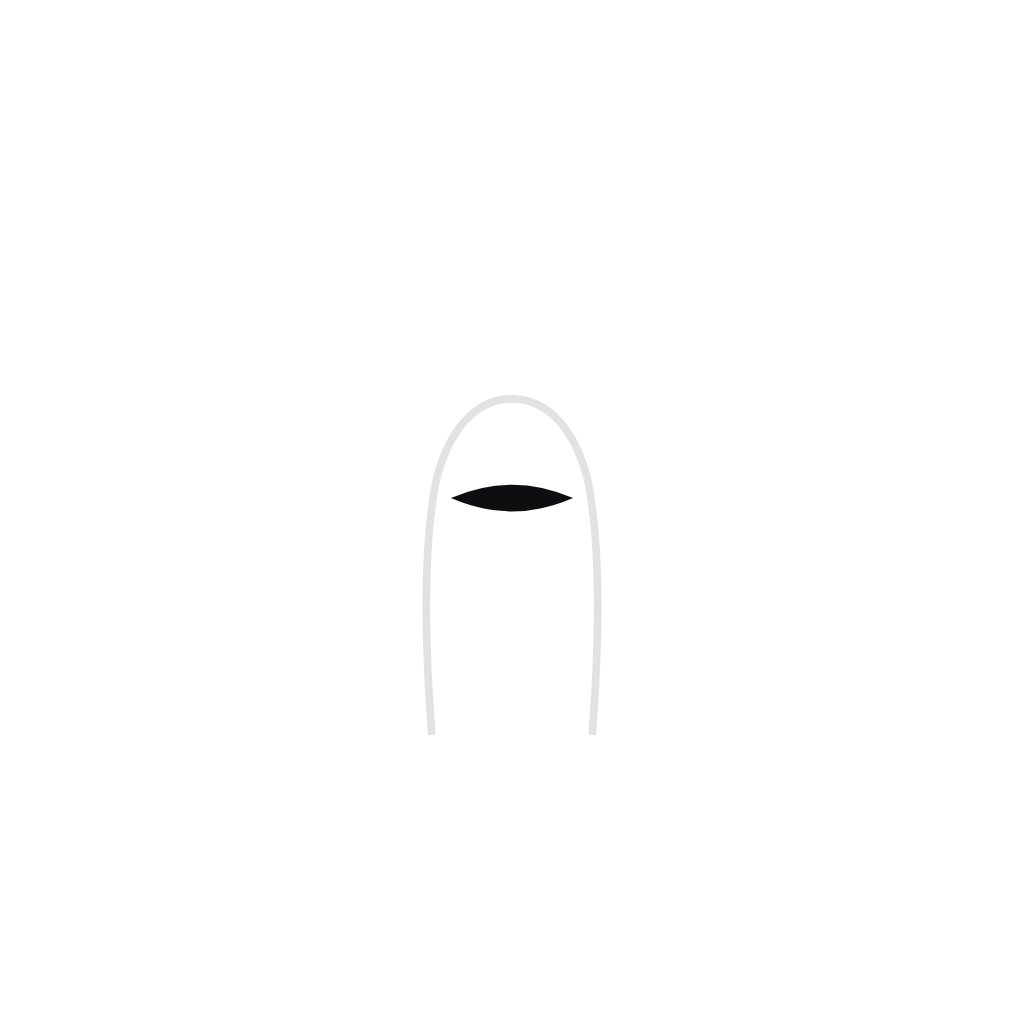
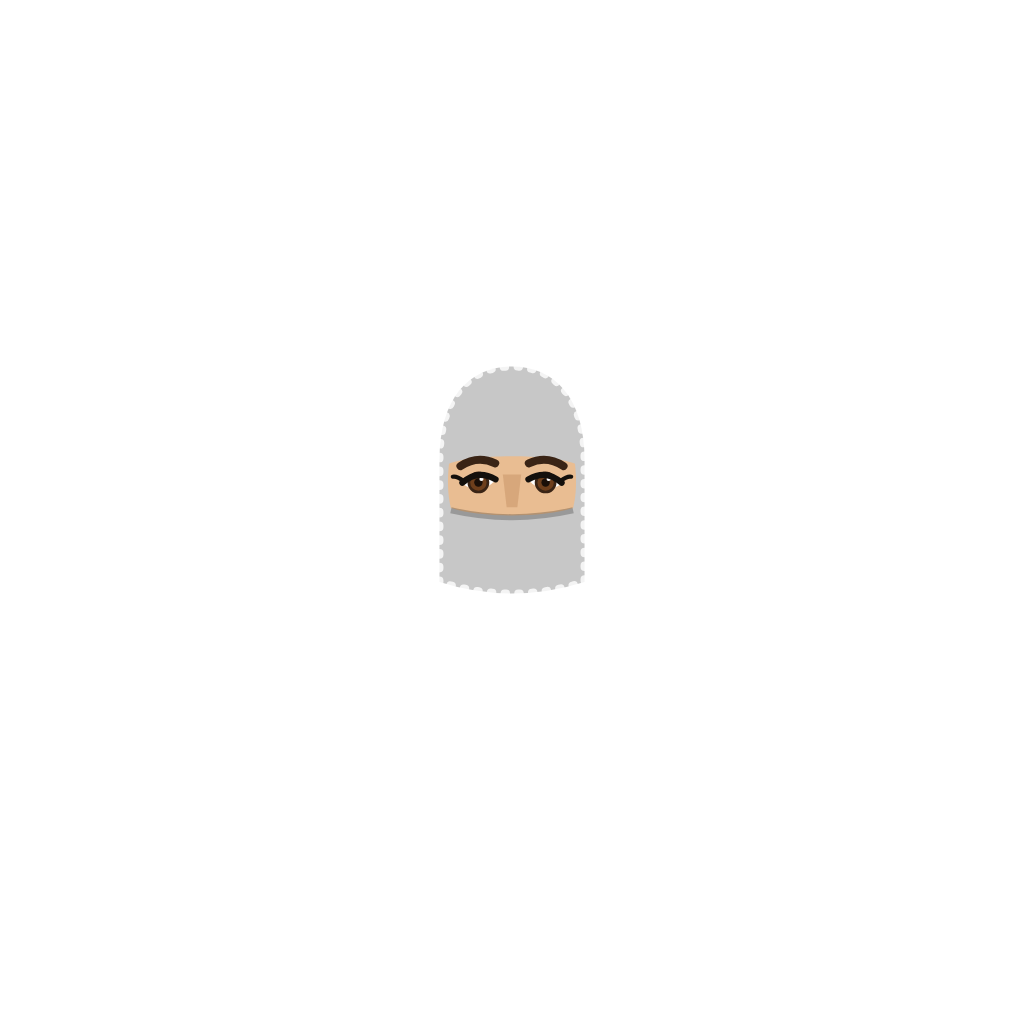
Redraw niqabi figure from reference: beaded arch, warm expressive eyes
Original SVG artwork in the style of the provided reference: black niqab
with beaded arch trim around the face dome, warm skin eye-veil opening,
brown almond eyes with catchlights, full lashes and defined brows, soft
nose-bridge shading. Applied everywhere the figure renders — mascot
(onboarding, voice matchmaking, picks, profile), unveiled niqabi profile
heroes and cards — and the app icon set regenerated to match.

Claude-Session: https://claude.ai/code/session_01WaoHQXFRjbMWHUtPkQZcWy

Changed region(s): [[0.4062, 0.3438, 0.5938, 0.7188]]

diff --git a/src/muzz/components/Figures.js b/src/muzz/components/Figures.js
@@ -1,10 +1,11 @@
 import React from 'react';
-import Svg, { Path, Defs, LinearGradient as SvgGrad, Stop, Ellipse, Rect, Circle } from 'react-native-svg';
+import Svg, { Path, Defs, LinearGradient as SvgGrad, Stop, Ellipse, Circle } from 'react-native-svg';
 
 // ─── Veiled figures ─────────────────────────────────────────────────
 // Elegant, modest illustrated figures used across the app:
-//  · NiqabiFigure — flowing niqab drape, kohl-lined eyes through the
-//    eye-veil, a small star brooch. The app mascot and niqabi card art.
+//  · NiqabiFigure — black niqab with a beaded arch trim and a warm eye
+//    veil opening: expressive brown almond eyes, full lashes, defined
+//    brows, soft nose-bridge shading. The app mascot and niqabi art.
 //  · HijabiFigure — gracefully wrapped hijab framing a serene face
 //    (closed lashes, soft smile). Used on hijabi profile cards.
 // Both are drawn in a 100 x 120 viewBox and scale crisply anywhere.
@@ -17,8 +18,20 @@ const DRAPE =
   'M50 8 C 33 8 23 21 20 39 C 17 57 15 88 12 118 L 88 118 '
   + 'C 85 88 83 57 80 39 C 77 21 67 8 50 8 Z';
 
-export function NiqabiFigure({ width = '100%', height = '100%', colorA = '#2A2A2E', colorB = '#0E0E10', face = '#F2ECE4', line = 'rgba(255,255,255,0.16)', preserveAspectRatio = 'xMidYMax meet' }) {
+// Inner face-dome of the niqab (the arch the beaded trim follows).
+const ARCH =
+  'M31 72 L31 40 C 31 23.5 39 15.5 50 15.5 C 61 15.5 69 23.5 69 40 '
+  + 'L69 72 Q 50 78 31 72 Z';
+
+export function NiqabiFigure({
+  width = '100%', height = '100%',
+  colorA = '#2A2A2E', colorB = '#0E0E10',
+  face = '#E9BD92', line = 'rgba(255,255,255,0.16)',
+  preserveAspectRatio = 'xMidYMax meet',
+}) {
   const id = React.useMemo(() => `nq${_gid++}`, []);
+  const brow = '#3A2415';
+  const lash = '#14100C';
   return (
     <Svg width={width} height={height} viewBox="0 0 100 120" preserveAspectRatio={preserveAspectRatio}>
       <Defs>
@@ -27,29 +40,49 @@ export function NiqabiFigure({ width = '100%', height = '100%', colorA = '#2A2A2
           <Stop offset="1" stopColor={colorB} />
         </SvgGrad>
       </Defs>
-      {/* Drape */}
+      {/* Outer drape */}
       <Path d={DRAPE} fill={`url(#${id})`} />
-      {/* Soft fold lines */}
-      <Path d="M40 20 C 33 32 30 58 28 112" stroke={line} strokeWidth="1.6" fill="none" />
-      <Path d="M60 20 C 67 32 70 58 72 112" stroke={line} strokeWidth="1.6" fill="none" />
-      <Path d="M50 64 C 49 80 49 98 49 116" stroke={line} strokeWidth="1.2" fill="none" />
-      {/* Eye veil opening */}
-      <Rect x="30" y="38.5" width="40" height="13.5" rx="6.75" fill={face} />
-      {/* Kohl-lined almond eyes */}
-      <Path d="M35.5 45.2 Q40.5 40.8 45.5 45.2 Q40.5 49.4 35.5 45.2 Z" fill="#1A161E" />
-      <Path d="M54.5 45.2 Q59.5 40.8 64.5 45.2 Q59.5 49.4 54.5 45.2 Z" fill="#1A161E" />
-      <Circle cx="40.5" cy="45" r="1.9" fill="#5C5460" />
-      <Circle cx="59.5" cy="45" r="1.9" fill="#5C5460" />
-      <Circle cx="41.1" cy="44.3" r="0.6" fill="#FFFFFF" opacity="0.9" />
-      <Circle cx="60.1" cy="44.3" r="0.6" fill="#FFFFFF" opacity="0.9" />
-      {/* Lash flicks */}
-      <Path d="M35.8 44.4 Q33.6 42.9 32.4 43.3" stroke="#1A161E" strokeWidth="1.1" fill="none" strokeLinecap="round" />
-      <Path d="M64.2 44.4 Q66.4 42.9 67.6 43.3" stroke="#1A161E" strokeWidth="1.1" fill="none" strokeLinecap="round" />
-      {/* Brow hints above the veil line */}
-      <Path d="M35.5 36.2 Q40.5 33.8 45.5 36" stroke={line} strokeWidth="1.4" fill="none" strokeLinecap="round" />
-      <Path d="M54.5 36 Q59.5 33.8 64.5 36.2" stroke={line} strokeWidth="1.4" fill="none" strokeLinecap="round" />
-      {/* Star brooch */}
-      <Path d="M50 68 L52 72.2 L56.2 74 L52 75.8 L50 80 L48 75.8 L43.8 74 L48 72.2 Z" fill={face} opacity="0.8" />
+      {/* Inner face dome, slightly deeper tone */}
+      <Path d={ARCH} fill={colorB} opacity={0.85} />
+      {/* Beaded arch trim */}
+      <Path
+        d={ARCH} fill="none" stroke={line} strokeWidth={2.1}
+        strokeDasharray="0.4 3.2" strokeLinecap="round"
+      />
+      {/* Eye veil opening — warm skin band */}
+      <Path
+        d="M33.5 41 C 40 38.4 60 38.4 66.5 41 C 67.1 46.5 66.6 50 66 52.6 C 58 55.2 42 55.2 34 52.6 C 33.4 50 32.9 46.5 33.5 41 Z"
+        fill={face}
+      />
+      {/* Nose-bridge shading */}
+      <Path d="M47.6 43.8 L52.4 43.8 L51.4 52.4 L48.6 52.4 Z" fill="#C99568" opacity={0.55} />
+      {/* Brows */}
+      <Path d="M36.5 41.6 Q 41 38.7 45.6 40.9" stroke={brow} strokeWidth={2.1} fill="none" strokeLinecap="round" />
+      <Path d="M54.4 40.9 Q 59 38.7 63.5 41.6" stroke={brow} strokeWidth={2.1} fill="none" strokeLinecap="round" />
+      {/* Eyes — white sclera, brown iris, catchlight */}
+      <Path d="M37 46.2 Q 41 42.5 45.6 45.4 Q 41.5 49.7 37 46.2 Z" fill="#FFFFFF" />
+      <Path d="M63 46.2 Q 59 42.5 54.4 45.4 Q 58.5 49.7 63 46.2 Z" fill="#FFFFFF" />
+      <Circle cx="41.2" cy="45.9" r="2.5" fill="#6E3F1C" stroke={brow} strokeWidth="0.7" />
+      <Circle cx="58.8" cy="45.9" r="2.5" fill="#6E3F1C" stroke={brow} strokeWidth="0.7" />
+      <Circle cx="41.2" cy="45.9" r="1.1" fill="#1A0F08" />
+      <Circle cx="58.8" cy="45.9" r="1.1" fill="#1A0F08" />
+      <Circle cx="42" cy="45" r="0.55" fill="#FFFFFF" />
+      <Circle cx="59.6" cy="45" r="0.55" fill="#FFFFFF" />
+      {/* Upper lash lines + outer flicks */}
+      <Path d="M37 46 Q 41 42.3 45.7 45.1" stroke={lash} strokeWidth={1.6} fill="none" strokeLinecap="round" />
+      <Path d="M63 46 Q 59 42.3 54.3 45.1" stroke={lash} strokeWidth={1.6} fill="none" strokeLinecap="round" />
+      <Path d="M37.3 45.5 Q 35.6 44.2 34.5 44.4" stroke={lash} strokeWidth={1.1} fill="none" strokeLinecap="round" />
+      <Path d="M38.2 44.5 Q 36.9 43.1 36 43.1" stroke={lash} strokeWidth={0.9} fill="none" strokeLinecap="round" />
+      <Path d="M62.7 45.5 Q 64.4 44.2 65.5 44.4" stroke={lash} strokeWidth={1.1} fill="none" strokeLinecap="round" />
+      <Path d="M61.8 44.5 Q 63.1 43.1 64 43.1" stroke={lash} strokeWidth={0.9} fill="none" strokeLinecap="round" />
+      {/* Soft lower lash lines */}
+      <Path d="M38 47.8 Q 41.5 49.6 45 47.5" stroke="#6B4A2E" strokeWidth={0.8} fill="none" opacity={0.7} />
+      <Path d="M62 47.8 Q 58.5 49.6 55 47.5" stroke="#6B4A2E" strokeWidth={0.8} fill="none" opacity={0.7} />
+      {/* Niqab edge under the eye veil */}
+      <Path d="M34 53.2 Q 50 56.8 66 53.2" stroke={colorB} strokeWidth={1.6} fill="none" opacity={0.9} />
+      {/* Outer fold lines */}
+      <Path d="M27 46 C 24 68 22 92 21 114" stroke={line} strokeWidth="1.4" fill="none" />
+      <Path d="M73 46 C 76 68 78 92 79 114" stroke={line} strokeWidth="1.4" fill="none" />
     </Svg>
   );
 }

diff --git a/src/muzz/components/ui.js b/src/muzz/components/ui.js
@@ -35,7 +35,7 @@ export function PhotoTile({ seed = '', name = '', style, rounded = RADIUS.lg, gr
               <VeilFigure
                 veil={figure}
                 colorA="rgba(255,255,255,0.55)" colorB="rgba(255,255,255,0.28)"
-                face="#F2ECE4" line="rgba(0,0,0,0.18)"
+                line="rgba(0,0,0,0.20)"
               />
             </View>
           ) : silhouette ? (
